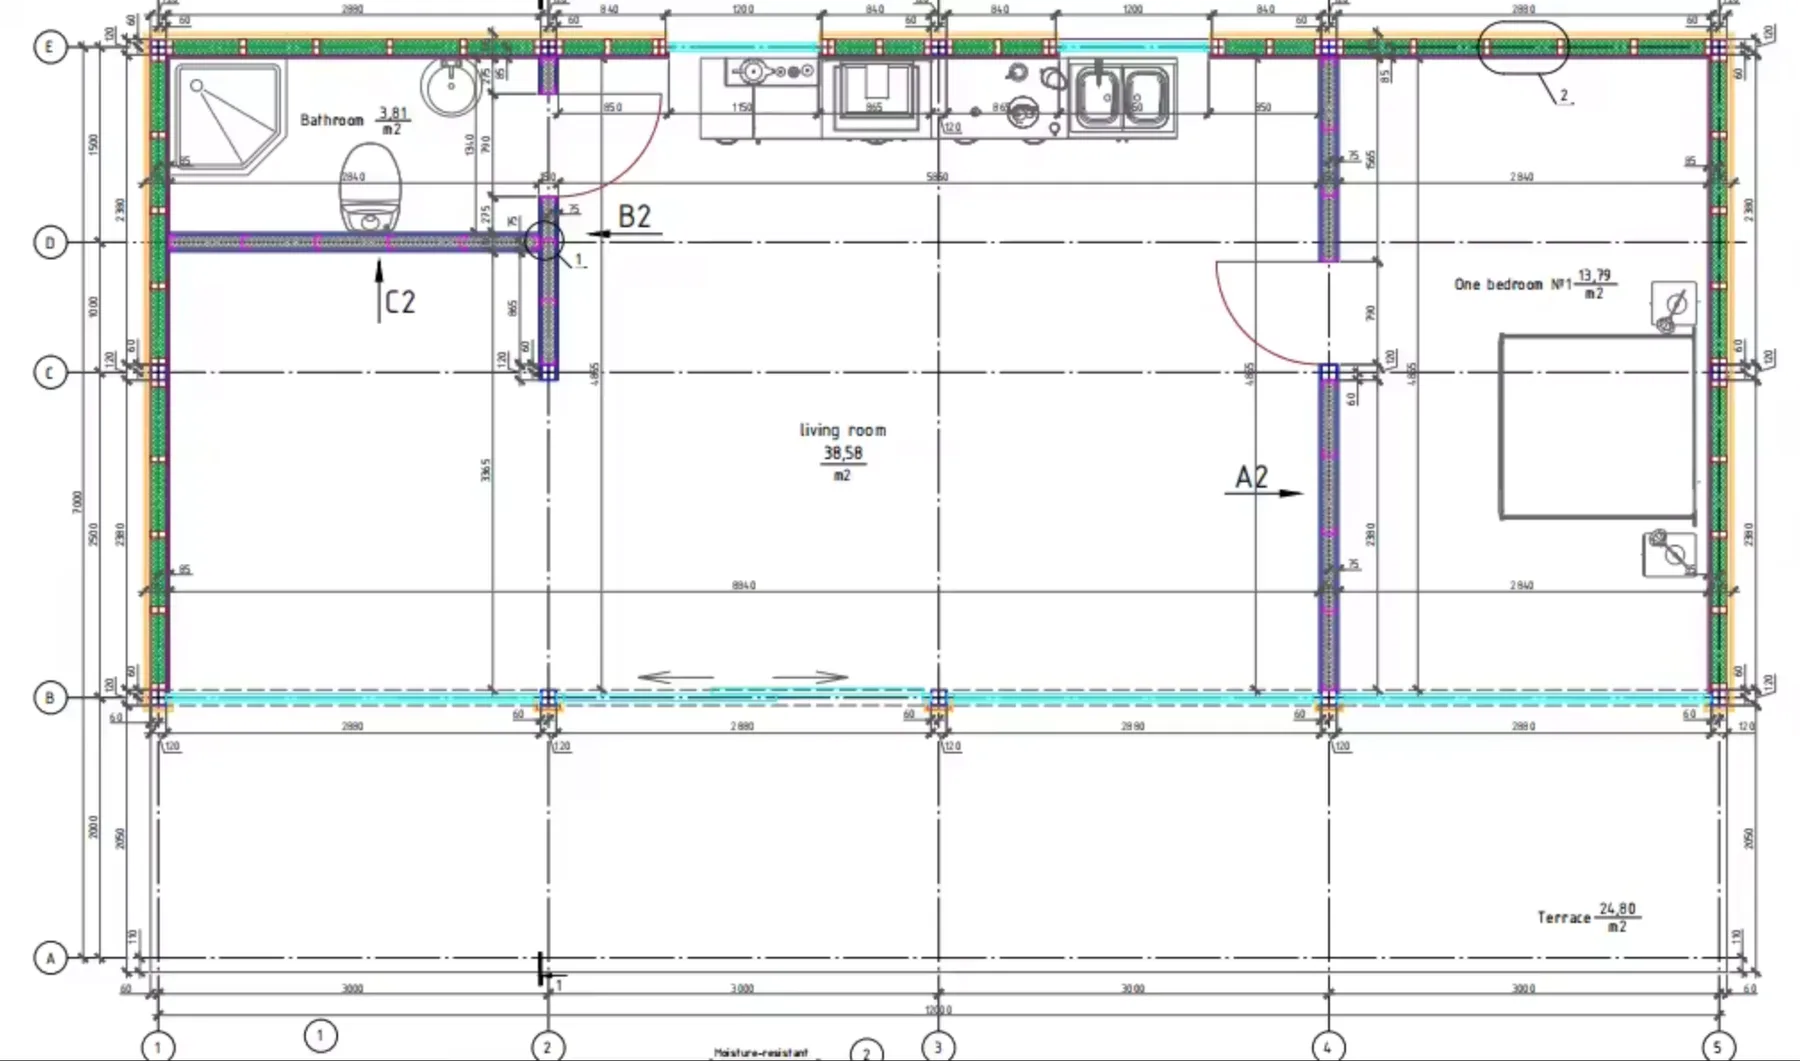
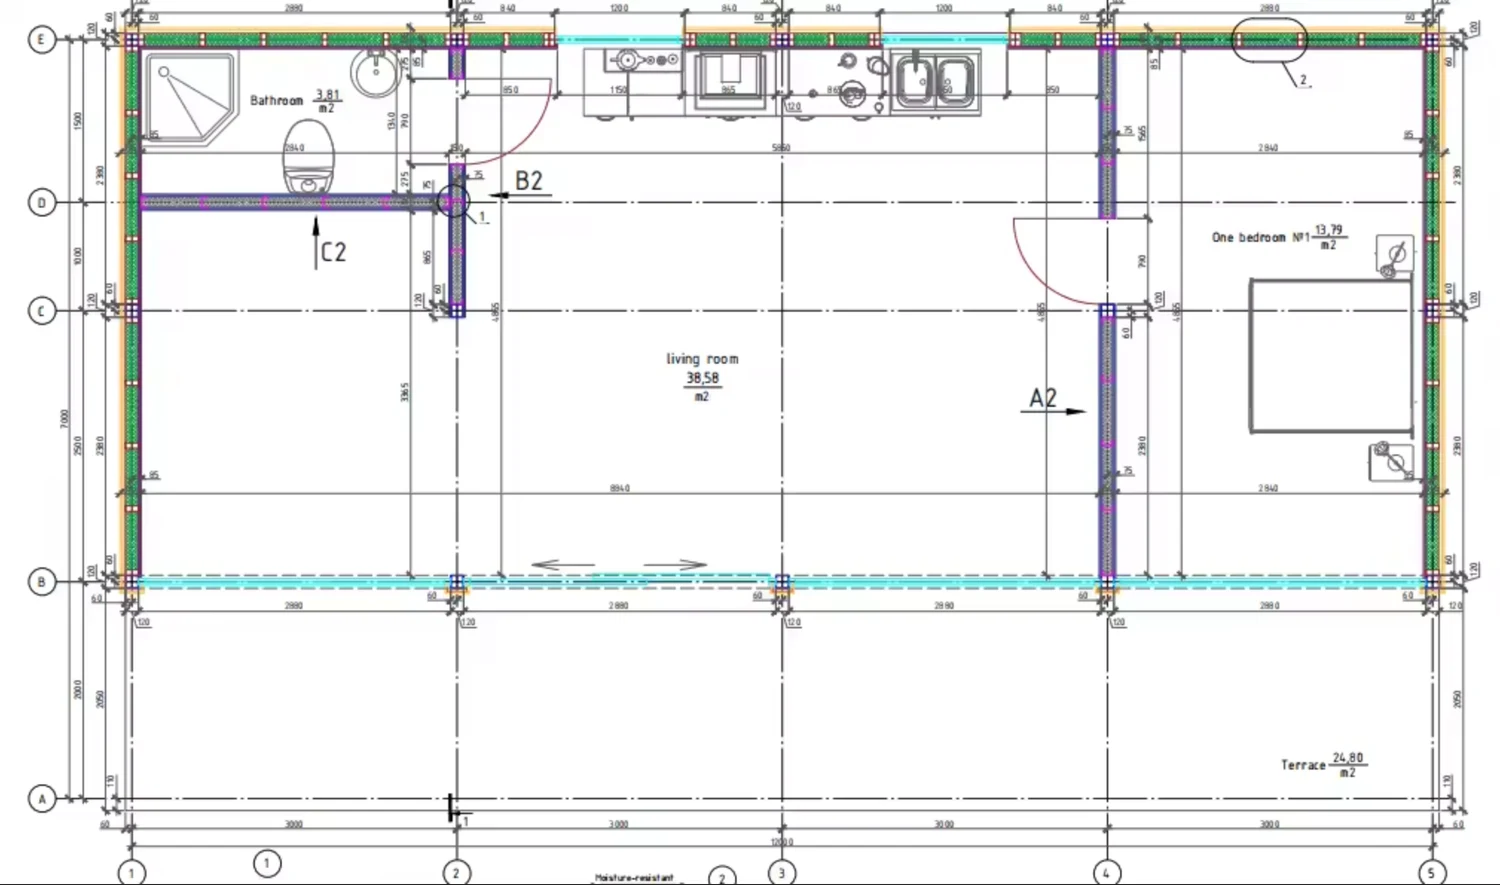
Add floor plan to Steele Frame Modular
Add the manufacturer's dimensioned floor plan (img/steel/plan.webp) to the
Steel Frame Modular listing — a labelled, click-to-enlarge figure at the top of
the 'Floor plan & scope' tab (living room 38.58 m², bedroom 13.79 m²,
bathroom 3.81 m², terrace 24.80 m²; ~12.0 × 7.0 m, 1-bed/1-bath) and added to
the product gallery.

diff --git a/index.html b/index.html
@@ -1340,9 +1340,15 @@ footer .fine{border-top:1px solid #2A332E;padding-top:22px;font-size:12px;color:
 
   <!-- SCOPE & EXCLUSIONS -->
   <div class="subsec" id="sub-s-construction"><div class="wrap">
-    <div class="eyebrow">Scope &amp; what&rsquo;s excluded</div>
-    <h2>What the quote includes &mdash; and what to source in Canada</h2>
-    <p class="intro">A 48 m&sup2; single-storey light-gauge-steel cabin with a full-glass wall, kitchen, bathroom and deck. Three things the manufacturer specifically flagged for a Canadian project:</p>
+    <div class="eyebrow">Floor plan &amp; scope</div>
+    <h2>Layout, then what the quote includes</h2>
+    <p class="intro">A 48 m&sup2; single-storey light-gauge-steel cabin with a full-glass wall, kitchen, bathroom and deck. The manufacturer&rsquo;s dimensioned plan below shows a <strong>single-level, 1-bed / 1-bath</strong> layout &mdash; open living + kitchen, one bedroom, a bathroom and a covered terrace.</p>
+    <figure style="margin:0 0 26px">
+      <img src="/img/steel/plan.webp" alt="Steel Frame Modular — dimensioned floor plan" loading="lazy" onclick="openLightbox(['/img/steel/plan.webp'],0)" style="display:block;width:100%;border:1px solid var(--line);border-radius:10px;background:#fff;cursor:zoom-in">
+      <figcaption style="font-size:12.5px;color:var(--steel);margin-top:8px">Manufacturer floor plan (~12.0 &times; 7.0 m). Rooms: <strong>living room 38.58 m&sup2;</strong>, <strong>bedroom №1 13.79 m&sup2;</strong>, <strong>bathroom 3.81 m&sup2;</strong> and <strong>terrace 24.80 m&sup2;</strong> &mdash; tap to enlarge. Dimensions to be confirmed against the stamped drawings for the permit.</figcaption>
+    </figure>
+    <h3 style="font-family:'Archivo',sans-serif;font-size:18px;font-weight:800;letter-spacing:-.01em;margin:0 0 6px">What the quote includes &mdash; and what to source in Canada</h3>
+    <p class="intro" style="margin-top:0">Three things the manufacturer specifically flagged for a Canadian project:</p>
     <div class="incl-rows">
       <div class="incl-row"><div class="incl-body">
         <div class="incl-title">1 &middot; Wood cladding &mdash; source locally (excluded)</div>
@@ -3869,7 +3875,7 @@ const CHUNSHU_GALLERY = ['/img/chunshu/hero.webp','/img/chunshu/int1.webp','/img
 const CHUNSHU_VIDEOS = [{src:'/video/chunshu-demo.webm', poster:'/img/chunshu/int1.webp'}];
 const CHUNSHU_MEDIA = [...CHUNSHU_GALLERY.map(src=>({type:'img',src})), ...CHUNSHU_VIDEOS.map(v=>({type:'video',src:v.src,poster:v.poster}))];
 const STEEL_HERO = '/img/steel/mirror-render.webp';
-const STEEL_GALLERY = ['/img/steel/mirror-render.webp','/img/steel/kitchen.webp','/img/steel/kitchen2.webp','/img/steel/bath2.webp','/img/steel/frame1.webp','/img/steel/frame2.webp','/img/steel/wall.webp','/img/steel/quote-brief.webp','/img/steel/quote-summary.webp'];
+const STEEL_GALLERY = ['/img/steel/mirror-render.webp','/img/steel/plan.webp','/img/steel/kitchen.webp','/img/steel/kitchen2.webp','/img/steel/bath2.webp','/img/steel/frame1.webp','/img/steel/frame2.webp','/img/steel/wall.webp','/img/steel/quote-brief.webp','/img/steel/quote-summary.webp'];
 const STEEL_MEDIA = STEEL_GALLERY.map(src=>({type:'img',src}));
 const CAPSULE_HERO = '/img/capsule/hero.webp';
 const CAPSULE_GALLERY = ['/img/capsule/hero.webp','/img/capsule/ext2.webp','/img/capsule/living.webp','/img/capsule/kitchen.webp','/img/capsule/bath.webp','/img/capsule/shower.webp','/img/capsule/plan.webp'];
